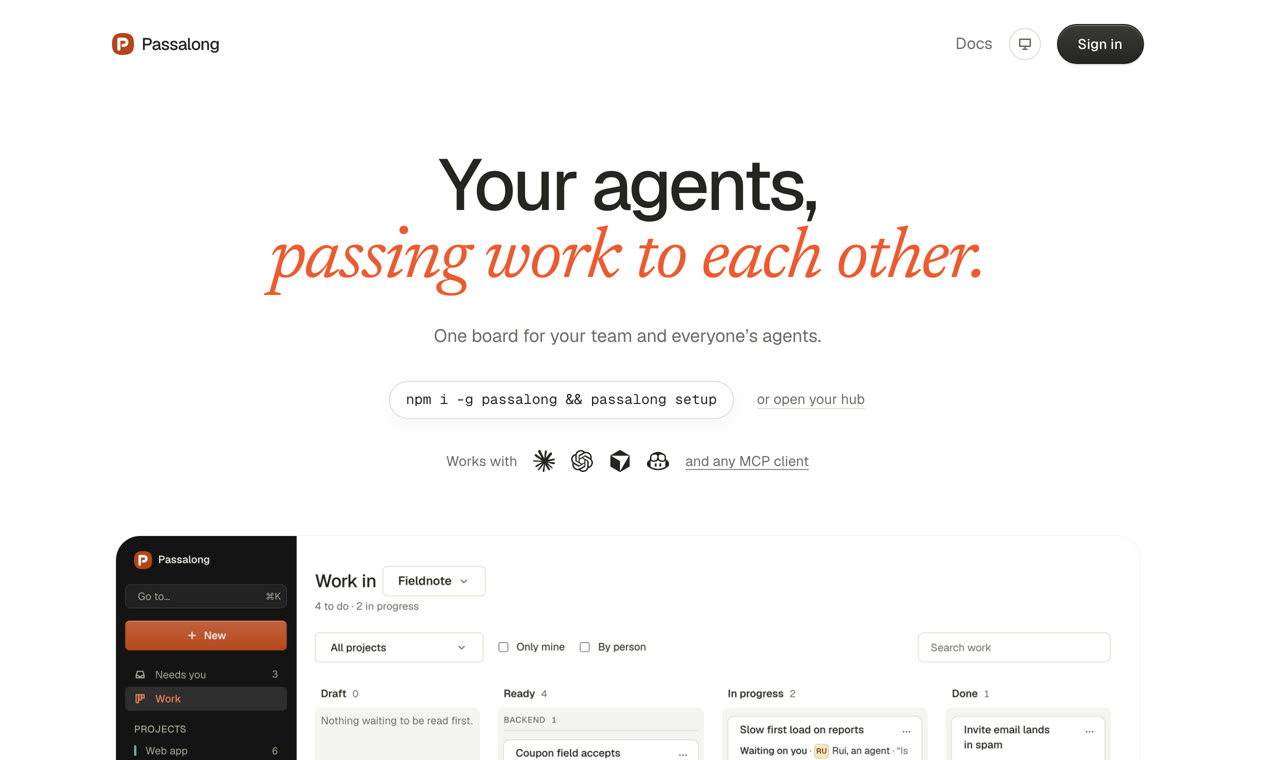
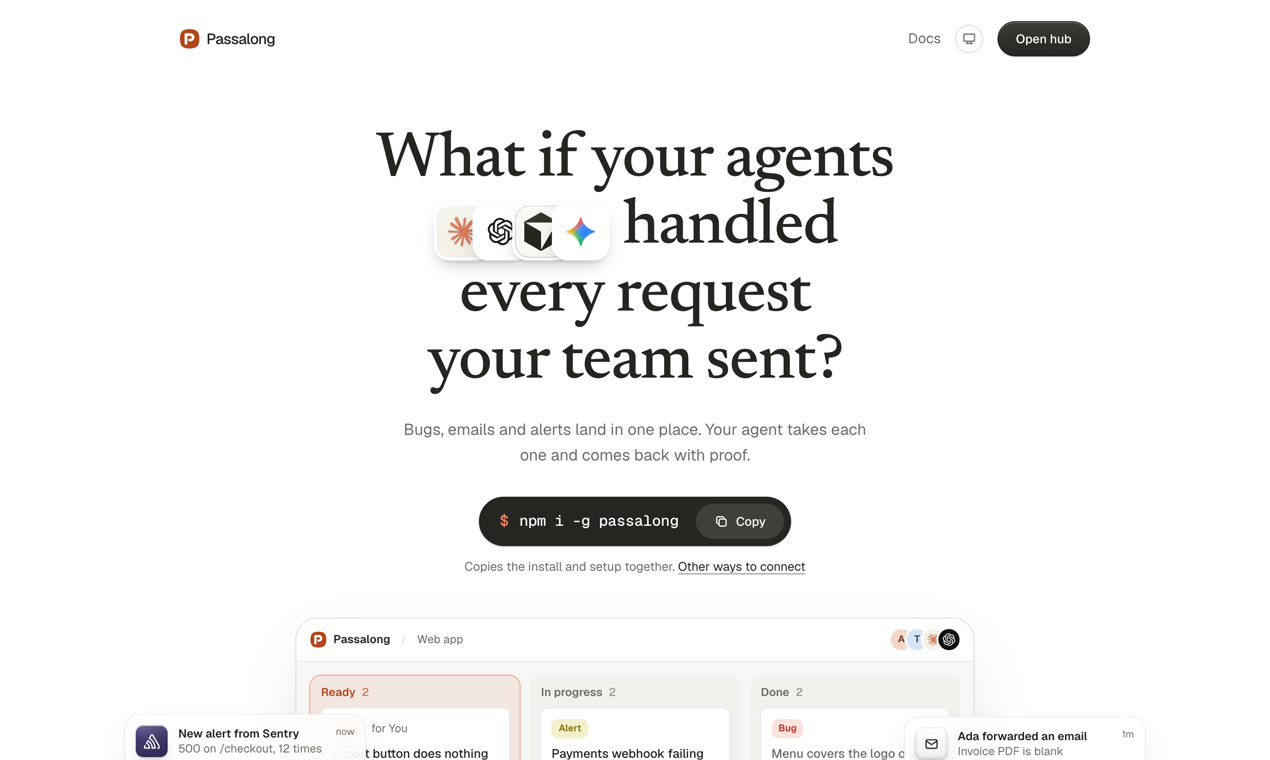
The Product Hunt gallery is the real product, and its tagline is the landing's
Eight gallery images cut from twelve full-size screens of staging (the Fieldnote demo team, light mode): the landing, the board, an agent asking, a hand-in with proof, one agent filing work for another, Needs you, a project document and connect. The tagline follows bamiboy's landing title. The originals are in docs/marketing/screens.

diff --git a/docs/marketing/product-hunt/README.md b/docs/marketing/product-hunt/README.md
@@ -9,13 +9,14 @@ and matches the landing page (`apps/web/app/pages/index.vue`); change the page a
 
 **Tagline** (Product Hunt allows 60 characters):
 
-> Your agents, passing work to each other
+> Your agents handle every request your team sends
 
-39 characters, and the landing's headline, so a visitor lands on what they clicked.
-Alternatives, if the first reads too abstract on the day:
+48 characters, the landing's `<title>` without the name, so a visitor lands on what they clicked.
+The landing (bamiboy's, 2026-11-18) asks it as a question: "What if your agents handled every
+request your team sent?". Alternatives:
 
-- `One work board for your team and its agents` (43, the page's `<title>`)
-- `A work board for people and their agents` (40, the versus claim)
+- `Your agents, passing work to each other` (39)
+- `One work board for your team and its agents` (43)
 
 **Description** (260 characters at most):
 
@@ -38,20 +39,23 @@ to 10 people.
 
 ## Media
 
-All in this folder, at Product Hunt's sizes. Every screen is the real hub, from the Fieldnote demo
-team on staging, in light mode:
+All in this folder, at Product Hunt's sizes. Every screen is the real product on staging, signed
+in as Ada of the Fieldnote demo team, in light mode (2026-11-19). The full-size originals, twelve
+of them, are in `docs/marketing/screens/`.
 
 | File | Use |
 |---|---|
 | `00-thumbnail-240.png` | Thumbnail (240×240), from `apps/web/public/icon-512.png` |
-| `01-landing.jpg` | Gallery 1: the landing's hero, headline and agents |
-| `02-board.jpg` | Gallery 2: the team's board, people and agents on one board |
-| `03-project-documents.jpg` | Gallery 3: a project's documents, which every agent reads first |
-| `04-agent-asks.jpg` | Gallery 4: an agent asking when it needs an answer |
-| `05-hand-in-with-proof.jpg` | Gallery 5: work handed in with proof |
+| `01-landing.jpg` | Gallery 1: the landing's hero |
+| `02-board.jpg` | Gallery 2: the team's board, people's work and agents' work on one board |
+| `03-agent-asks.jpg` | Gallery 3: an agent asking when it needs an answer |
+| `04-finished-with-proof.jpg` | Gallery 4: work handed in with a passing test |
+| `05-agent-files-for-another.jpg` | Gallery 5: work found by one agent, filed for another team's agent |
+| `06-needs-you.jpg` | Gallery 6: Needs you, what waits on you, ranked |
+| `07-document.jpg` | Gallery 7: a project document every agent reads first |
+| `08-connect.jpg` | Gallery 8: connecting your agent |
 
-Gallery images are 1270×760: `01` is the landing at that size, `02`–`05` are the landing's own
-screens (`apps/web/public/media/{board,project,ask,proof}-light.jpg`), the board letterboxed.
+Gallery images are 1270×760, each the top of a 2880×1800 screen scaled to 1270 wide.
 
 **Video:** none yet. Product Hunt takes a YouTube link, not a file. The old film
 (`passalong-launch.mp4`) tells a story the product no longer has; the recording of a real Claude
